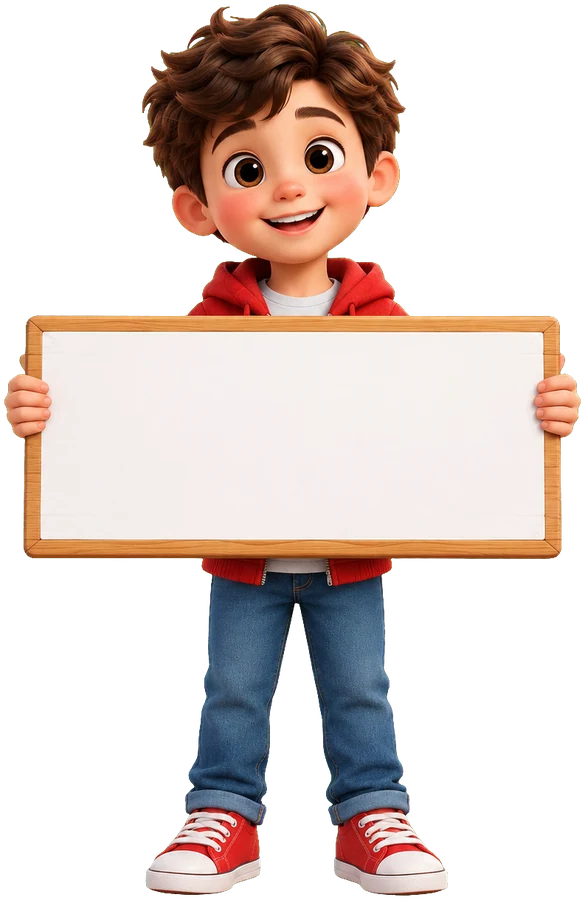
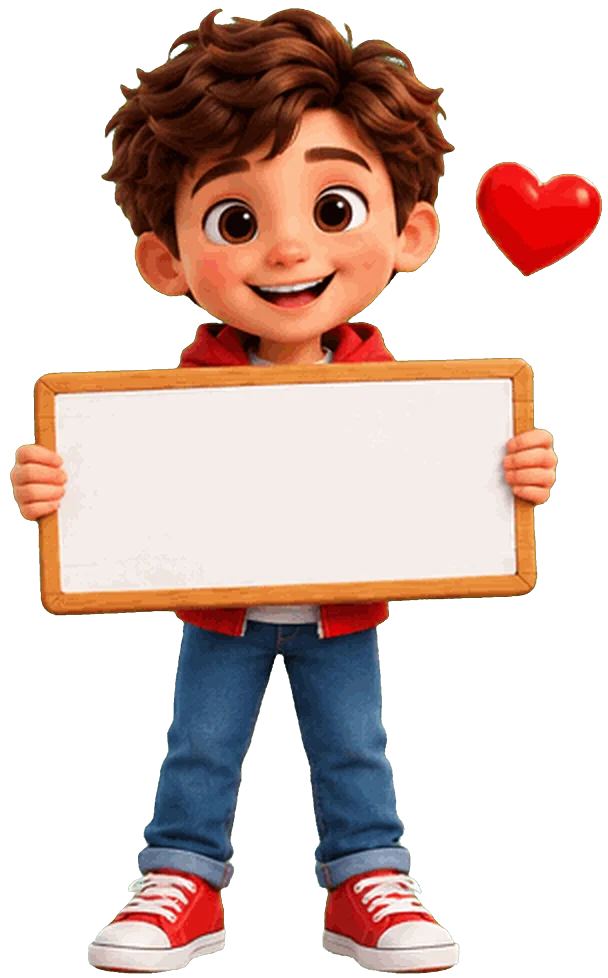
1.5.1: escena del chico animada cuadro por cuadro, el letrero lo sigue

diff --git a/src/web/overlay.html b/src/web/overlay.html
@@ -65,9 +65,12 @@
   #anim .sc .char { position: absolute; inset: 0; width: 100%; height: 100%; }
   #anim .sc .part { position: absolute; }
   #anim .sc .part.heart { animation: heartIn .5s cubic-bezier(.3,1.8,.5,1) .45s both, heartBeat 1s ease-in-out 1s infinite; }
-  #anim .sc .sign { position: absolute; display: flex; align-items: center; justify-content: center; text-align: center; padding: 2% 4%;
+  #anim .sc .sign { position: absolute; box-sizing: border-box; }
+  #anim .sc .sign .in { width: 100%; height: 100%; display: flex; align-items: center; justify-content: center; text-align: center; padding: 2% 5%;
     box-sizing: border-box; color: #3b2314; font-weight: 900; line-height: 1.08; overflow: hidden; word-break: break-word;
     animation: signIn .45s cubic-bezier(.3,1.7,.5,1) .55s both; }
+  #anim .sc.sprite .body { animation: scIn .75s cubic-bezier(.25,1.55,.45,1) both; }
+  #anim .sc .frames { position: absolute; inset: 0; background-repeat: no-repeat; }
   #anim .sc .sign .u { color: var(--c1); white-space: nowrap; }
   @keyframes scIn { from { transform: translateY(105%) scale(.9); } to { transform: none; } }
   @keyframes scIdle { 0%, 100% { transform: rotate(0) scale(1, 1); } 20% { transform: rotate(-2.2deg) scale(1.02, .98); }
@@ -220,18 +223,43 @@
       el = document.createElement('div'); el.className = 'sc';
       el.style.height = hPx + 'px'; el.style.width = hPx * ratio + 'px';
       const body = document.createElement('div'); body.className = 'body'; el.appendChild(body);
-      media.className = 'char'; body.appendChild(media);
+      let frames = null;
+      if (sc.sprite) {
+        // Personaje animado cuadro por cuadro: una tira de cuadros que vamos cambiando aquí, para que el letrero lo siga.
+        el.classList.add('sprite');
+        frames = document.createElement('div'); frames.className = 'frames';
+        frames.style.backgroundImage = `url("/anim/${encodeURIComponent(sc.sprite.file)}")`;
+        frames.style.backgroundSize = `${sc.sprite.n * 100}% 100%`;
+        body.appendChild(frames);
+      } else { media.className = 'char'; body.appendChild(media); }
       for (const part of sc.parts || []) {
         const p = document.createElement('img'); p.className = 'part ' + (part.anim || ''); p.src = '/anim/' + encodeURIComponent(part.file);
         const [x, y, pw, ph] = part.box; Object.assign(p.style, {left: x + '%', top: y + '%', width: pw + '%', height: ph + '%'});
         body.appendChild(p);
       }
-      const [x, y, sw, sh] = sc.sign;
       const sign = document.createElement('div'); sign.className = 'sign';
-      Object.assign(sign.style, {left: x + '%', top: y + '%', width: sw + '%', height: sh + '%'});
+      const place = box => {  // box: [x, y, w, h] (esquina) o [cx, cy, w, h, grados] (centro, de la tira de cuadros)
+        if (box.length > 4) Object.assign(sign.style, {left: box[0] - box[2] / 2 + '%', top: box[1] - box[3] / 2 + '%', width: box[2] + '%', height: box[3] + '%', transform: `rotate(${box[4]}deg)`});
+        else Object.assign(sign.style, {left: box[0] + '%', top: box[1] + '%', width: box[2] + '%', height: box[3] + '%'});
+      };
+      const signBox = sc.track ? [sc.track[0][0], sc.track[0][1], Math.min(...sc.track.map(b => b[2])), Math.min(...sc.track.map(b => b[3])), 0] : sc.sign, sw = signBox[2], sh = signBox[3];
+      place(signBox);
+      const inner = document.createElement('div'); inner.className = 'in';
       const span = document.createElement('span');
       span.innerHTML = esc(a.sign || '').split('{user}').join(a.user ? `<span class="u">${esc(a.user)}</span>` : '');
-      sign.appendChild(span); body.appendChild(sign);
+      inner.appendChild(span); sign.appendChild(inner); body.appendChild(sign);
+      if (frames) {
+        let i = 0;
+        const step = () => {
+          if (!el.isConnected) return;
+          frames.style.backgroundPosition = `${sc.sprite.n > 1 ? i * 100 / (sc.sprite.n - 1) : 0}% 0`;
+          place(sc.track[i] || sc.track[0]);
+          const wait = sc.sprite.durs[i] || 120;
+          i = (i + 1) % sc.sprite.n;
+          setTimeout(step, wait);
+        };
+        setTimeout(step, 0);
+      }
       $('#anim').appendChild(el);
       // Que el texto quepa en el letrero: empezar grande e ir bajando.
       const sH = hPx * sh / 100 * 0.88;
@@ -239,6 +267,7 @@
       span.style.fontSize = fs + 'px';
       span.style.width = '100%';
       while (fs > 8 && (span.scrollWidth > span.clientWidth + 1 || span.offsetHeight > sH)) { fs *= 0.93; span.style.fontSize = fs + 'px'; }
+      span.style.width = span.clientWidth + 'px'; span.style.flex = 'none';  // que no se reacomode cuando el letrero cambia de tamaño
     } else if (a.who && a.who.name) {
       // Con nombre: la animación y abajo la tarjeta con la foto y el nombre.
       media.className = 'a'; media.style.height = Math.min(a.size, 82) + 'vh';

diff --git a/src/ectok_server.py b/src/ectok_server.py
@@ -28,7 +28,7 @@ from http.server import BaseHTTPRequestHandler, ThreadingHTTPServer
 from pathlib import Path
 from urllib.parse import parse_qs, unquote, urlsplit
 
-APP_VERSION = "1.5.0"
+APP_VERSION = "1.5.1"
 
 try:  # lo genera windows/build.ps1
     from ectok_build import BUILD_DATE  # type: ignore[import-not-found]

diff --git a/CHANGELOG.md b/CHANGELOG.md
@@ -1,5 +1,9 @@
 # Cambios de EC-Tok
 
+## 1.5.1 — El chico ahora sí se anima
+- La escena del chico es animación de verdad (brinca, levanta el puño, se ríe) y **el texto del letrero lo sigue cuadro por cuadro**, aunque el letrero se mueva o se incline.
+- Las escenas aceptan tiras de cuadros con el letrero ubicado en cada cuadro (para los personajes animados que vengan).
+
 ## 1.5.0 — Escenas con letrero 🧒👧
 - Nuevas animaciones tipo Pixar: **un chico y una chica que entran brincando, se mecen, con un corazón que late y un letrero** donde EC-Tok escribe lo que tú quieras.
 - **Cada regla tiene su propio texto** para el letrero, con comodines: `{user}` (sale resaltado), `{gift}`, `{count}`, `{likes}`, `{diamonds}`. Ej.: «¡Gracias por seguirme, {user}!» o «¡Gracias por tus {likes} likes!». Si lo dejas vacío, pone uno según lo que pasó y en tu idioma. El texto se acomoda solo al tamaño del letrero.
